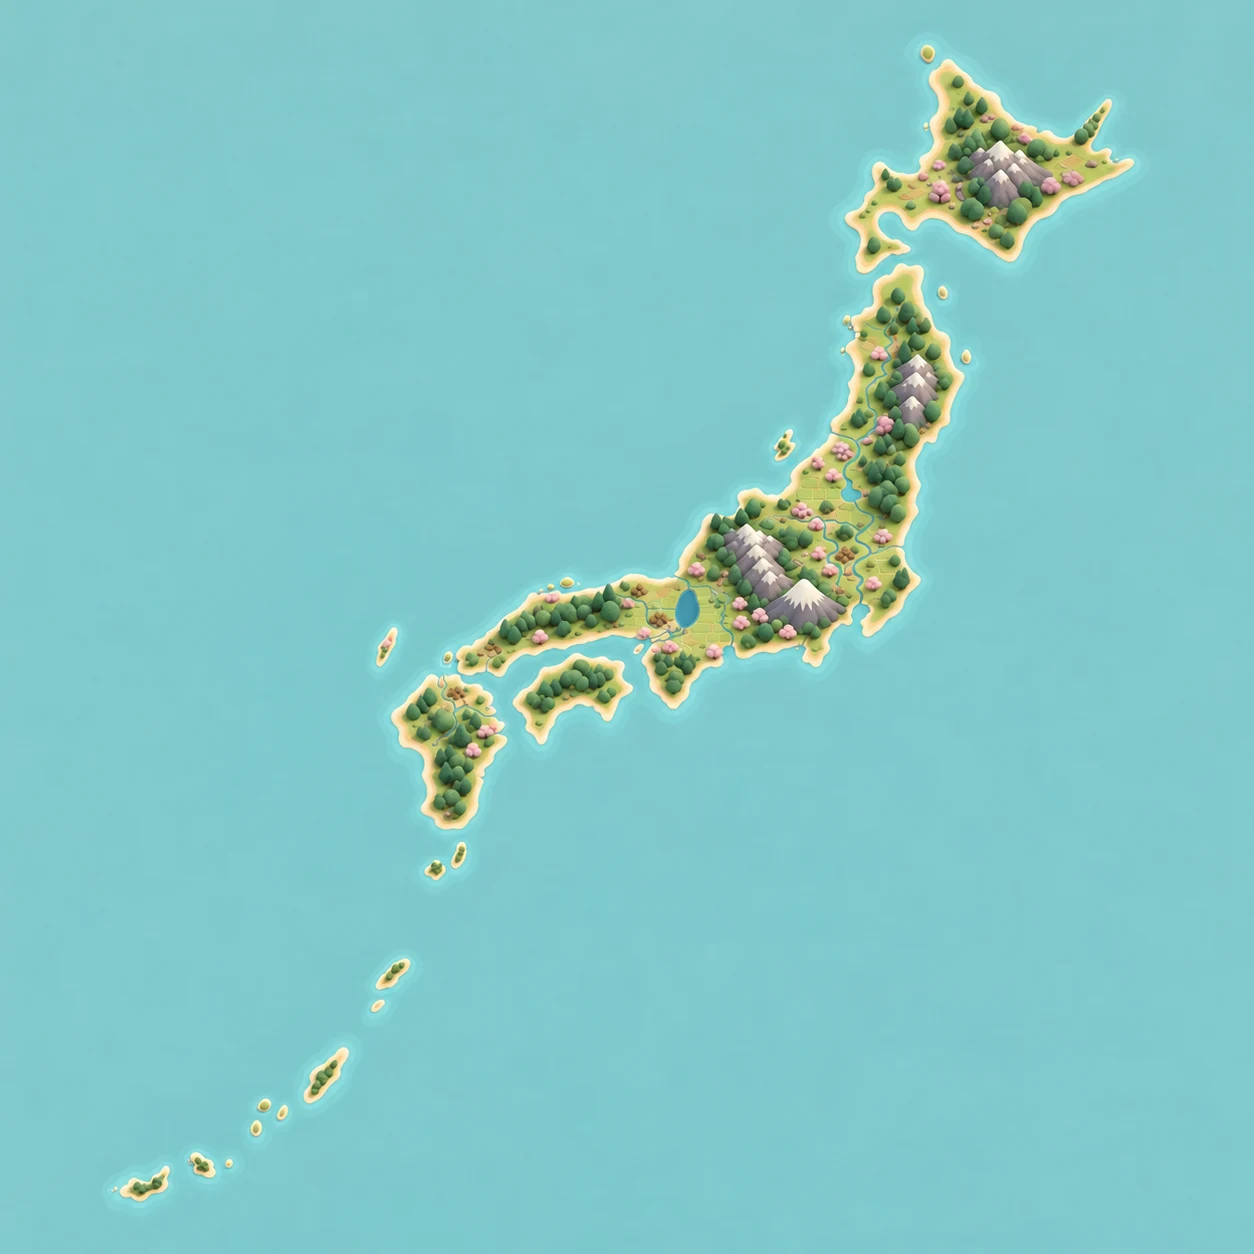
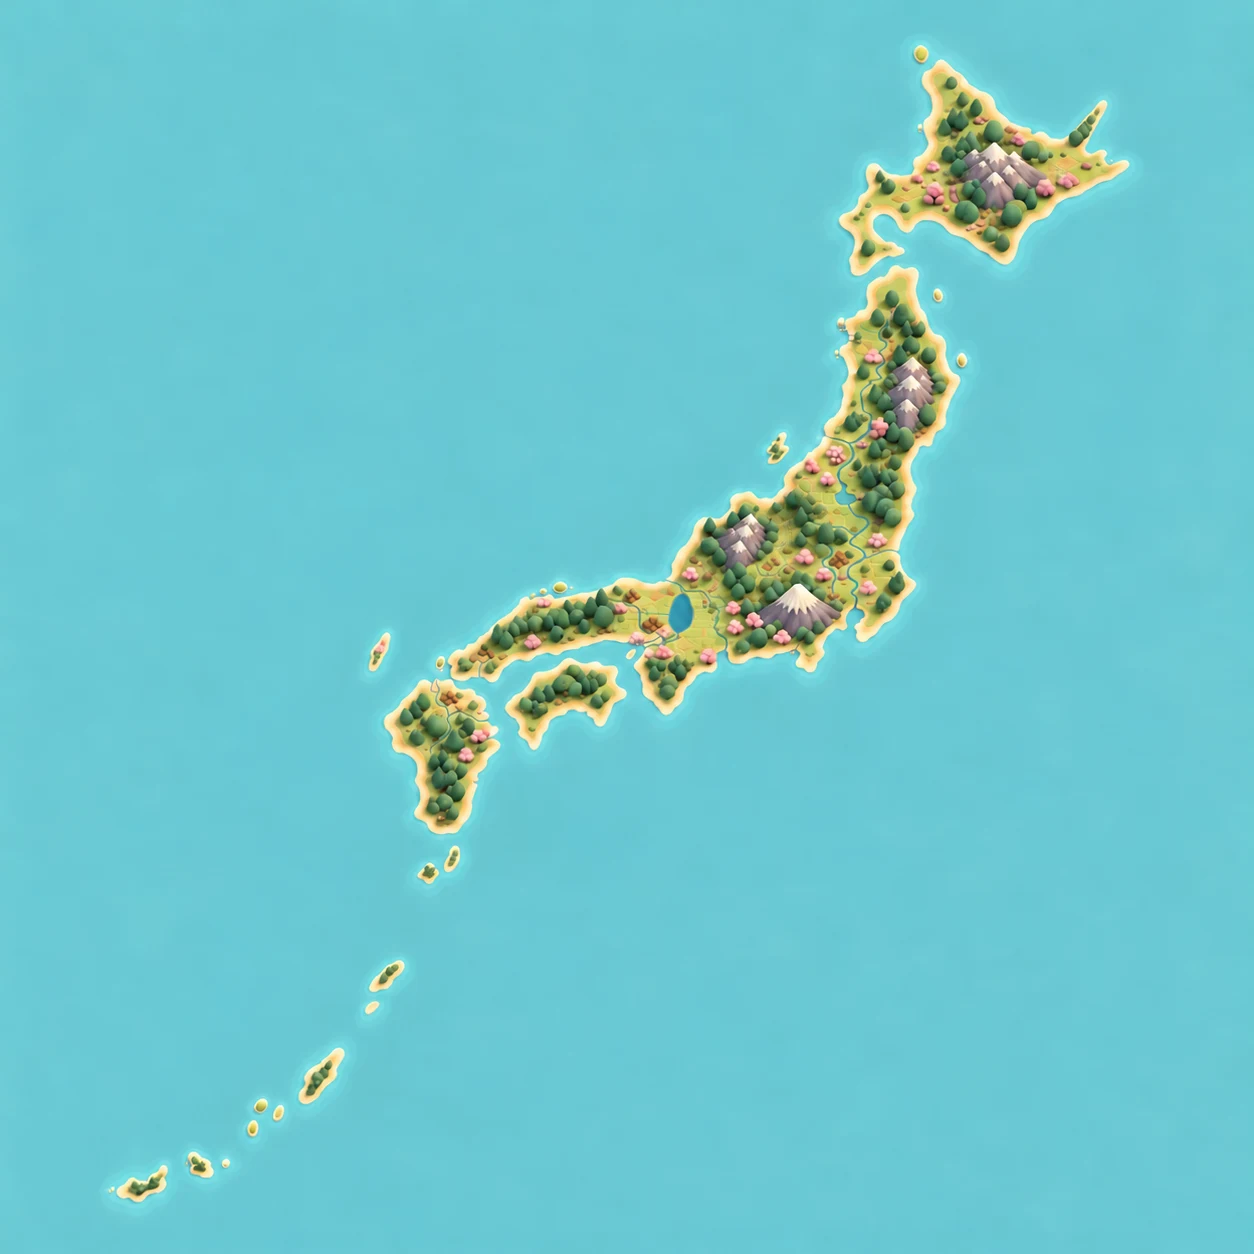
圖鑑地圖：台灣貼圖簡化三成、日本中部只留富士山和立山連峰
- 台灣：田地併成大塊、村落只留兩個、河流三條、樹木減少，讓地圖上的動物更好辨識
- 日本：拿掉中部的日本阿爾卑斯群山，改成立山連峰（北陸）；雷鳥移到立山
- 外圍海色跟著新貼圖

diff --git a/src/content/config.ts b/src/content/config.ts
@@ -155,7 +155,7 @@ export const ANIMALS: AnimalDef[] = [
   { id: 'iriomote_cat', region: 'jp', name: '西表山貓', shape: 'cat', color: '#b49a74', accent: '#4a3b2a', unlock: { kind: 'start' }, blurb: '只住在西表島的野生貓，耳朵背面有白色斑點。', habitat: { zone: 'low', region: '西表島的亞熱帶森林與紅樹林', elevation: '低海拔', level: 1, lon: 123.82, lat: 24.33 } },
   { id: 'okinawa_woodpecker', region: 'jp', name: '野口啄木鳥', shape: 'bird', color: '#6b2a22', accent: '#c8433a', unlock: { kind: 'start' }, blurb: '只住在沖繩本島北部森林的啄木鳥，全身深紅褐色。', habitat: { zone: 'low', region: '沖繩本島北部（山原）的常綠闊葉林', elevation: '約 500 公尺以下', level: 1, lon: 128.2, lat: 26.73 } },
   { id: 'japanese_serow', region: 'jp', name: '日本鬣羚', shape: 'goat', color: '#5a4a3c', accent: '#cbbca6', unlock: { kind: 'project', id: 'jp_path' }, blurb: '住在山地森林，常一動也不動地站在岩石上。', habitat: { zone: 'mid', region: '本州、四國、九州的山地森林', elevation: '約 500～2,500 公尺', level: 1, lon: 137.6, lat: 36.2 } },
-  { id: 'ptarmigan', region: 'jp', name: '雷鳥', shape: 'pheasant', color: '#eeeeea', accent: '#d8392f', unlock: { kind: 'project', id: 'jp_terrace' }, blurb: '住在高山上，冬天換上一身雪白的羽毛。', habitat: { zone: 'high', region: '日本阿爾卑斯等高山的岩石與灌叢', elevation: '約 2,200～3,000 公尺', level: 1, lon: 137.65, lat: 36.3 } },
+  { id: 'ptarmigan', region: 'jp', name: '雷鳥', shape: 'pheasant', color: '#eeeeea', accent: '#d8392f', unlock: { kind: 'project', id: 'jp_terrace' }, blurb: '住在高山上，冬天換上一身雪白的羽毛。', habitat: { zone: 'high', region: '日本阿爾卑斯等高山的岩石與灌叢', elevation: '約 2,200～3,000 公尺', level: 1, lon: 137.6, lat: 36.57 } },
   { id: 'blakiston_owl', region: 'jp', name: '毛腿魚鴞', shape: 'owl', color: '#8a6a48', accent: '#f2c230', unlock: { kind: 'project', id: 'jp_hut' }, blurb: '世界上最大的貓頭鷹之一，夜裡在河邊抓魚。', habitat: { zone: 'low', region: '北海道東部的河畔原生林', elevation: '低至中海拔', level: 2, lon: 144.5, lat: 43.6 } },
   { id: 'tsushima_cat', region: 'jp', name: '對馬山貓', shape: 'cat', color: '#a88a60', accent: '#4a3826', unlock: { kind: 'project', id: 'jp_bamboo' }, blurb: '只住在對馬島的石虎，額頭有白色條紋。', habitat: { zone: 'low', region: '長崎縣對馬島的森林與水田', elevation: '低海拔', level: 2, lon: 129.3, lat: 34.4 } },
   { id: 'steller_eagle', region: 'jp', name: '虎頭海鵰', shape: 'raptor', color: '#3a2e26', accent: '#f2a020', unlock: { kind: 'project', id: 'jp_stream' }, blurb: '有巨大的橘黃色嘴巴，冬天從俄羅斯飛來北海道。', habitat: { zone: 'low', region: '北海道的海岸與湖泊（冬候鳥）', elevation: '海岸與湖泊', level: 2, lon: 145.3, lat: 44.0 } },

diff --git a/src/scenes/japanGeo.ts b/src/scenes/japanGeo.ts
@@ -48,8 +48,8 @@ export const JAPAN = makeGeo({
   name: '日本',
   outlines: [HOKKAIDO, HONSHU, SHIKOKU, KYUSHU, OKINAWA, AMAMI, YAKUSHIMA, TANEGASHIMA, MIYAKO, ISHIGAKI, IRIOMOTE, SADO, TSUSHIMA],
   ridges: [
-    // 日本阿爾卑斯
-    { w: 0.35, pts: [[136.9, 36.9, 2.2], [137.6, 36.4, 3.1], [137.9, 35.8, 2.9], [138.1, 35.3, 2.0]] },
+    // 立山連峰（北陸，劍岳～立山～藥師岳，山頂有雪）
+    { w: 0.16, pts: [[137.62, 36.78, 2.4], [137.62, 36.6, 3.6], [137.56, 36.45, 3.4]] },
     // 富士山
     { w: 0.3, pts: [[138.72, 35.35, 3.8], [138.74, 35.37, 3.8]] },
     // 奧羽山脈
@@ -66,11 +66,11 @@ export const JAPAN = makeGeo({
     // 屋久島
     { w: 0.12, pts: [[130.52, 30.34, 1.9], [130.53, 30.35, 1.9]] },
   ],
-  ridgeLine: [[136.9, 36.9], [137.6, 36.4], [137.9, 35.8], [138.1, 35.3]],
+  ridgeLine: [[137.62, 36.78], [137.62, 36.6], [137.56, 36.45]],
   lon0: 133.9,
   lat0: 34.85,
   k: 0.16,
   bounds: [122.9, 24.0, 146.2, 45.7],
   step: 0.11,
-  art: { src: art, bounds: [120.6649, 23.2, 148.9351, 46.4], sea: '#81c9cc' },
+  art: { src: art, bounds: [120.6649, 23.2, 148.9351, 46.4], sea: '#6acad4' },
 });

diff --git a/src/scenes/taiwanGeo.ts b/src/scenes/taiwanGeo.ts
@@ -35,5 +35,5 @@ export const TAIWAN = makeGeo({
   k: 1.45,
   bounds: [119.98, 21.88, 122.0, 25.32],
   step: 0.018,
-  art: { src: art, bounds: [119.5266, 21.55, 122.4734, 25.6], sea: '#91c4c1' },
+  art: { src: art, bounds: [119.5266, 21.55, 122.4734, 25.6], sea: '#80c5c7' },
 });
